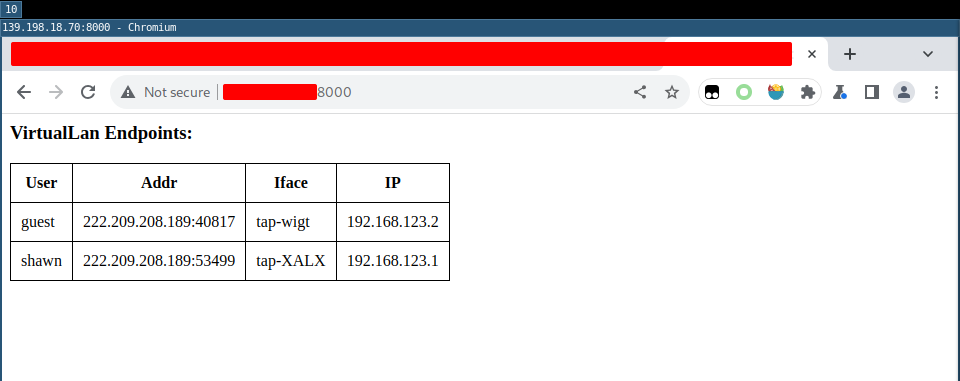
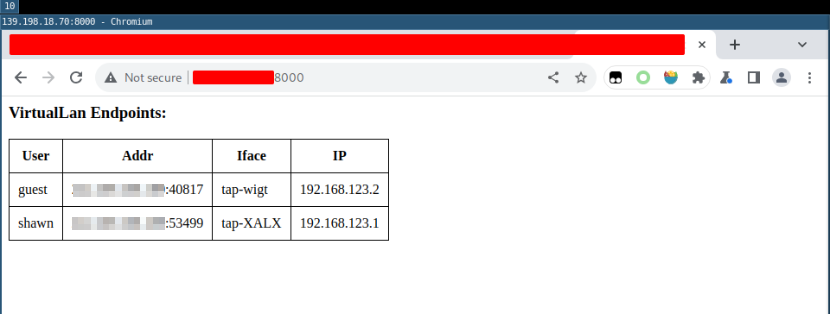
Modify readme

Changed region(s): [[0.0, 0.172, 0.994, 0.7739], [0.0, 0.0, 1.0, 0.1146], [0.3313, 0.2293, 0.3614, 0.258]]

diff --git a/README.md b/README.md
@@ -104,8 +104,8 @@ server log
 root@i-5tb1rpqn:~/tmp# ./main server -d ./config/
 INFO[0000] run web server on port 8000                  
 WARN[0108] wrong passwd for user shawn                  
-INFO[0129] client 222.209.208.189:53499 login to shawn succeed 
-INFO[0129] client 222.209.208.189:53499 auth succeed    
-INFO[0299] client 222.209.208.189:40817 login to guest succeed 
-INFO[0299] client 222.209.208.189:40817 auth succeed
+INFO[0129] client <remote address of endpoint>:53499 login to shawn succeed 
+INFO[0129] client <remote address of endpoint>:53499 auth succeed    
+INFO[0299] client <remote address of endpoint>:40817 login to guest succeed 
+INFO[0299] client <remote address of endpoint>:40817 auth succeed
 ```
